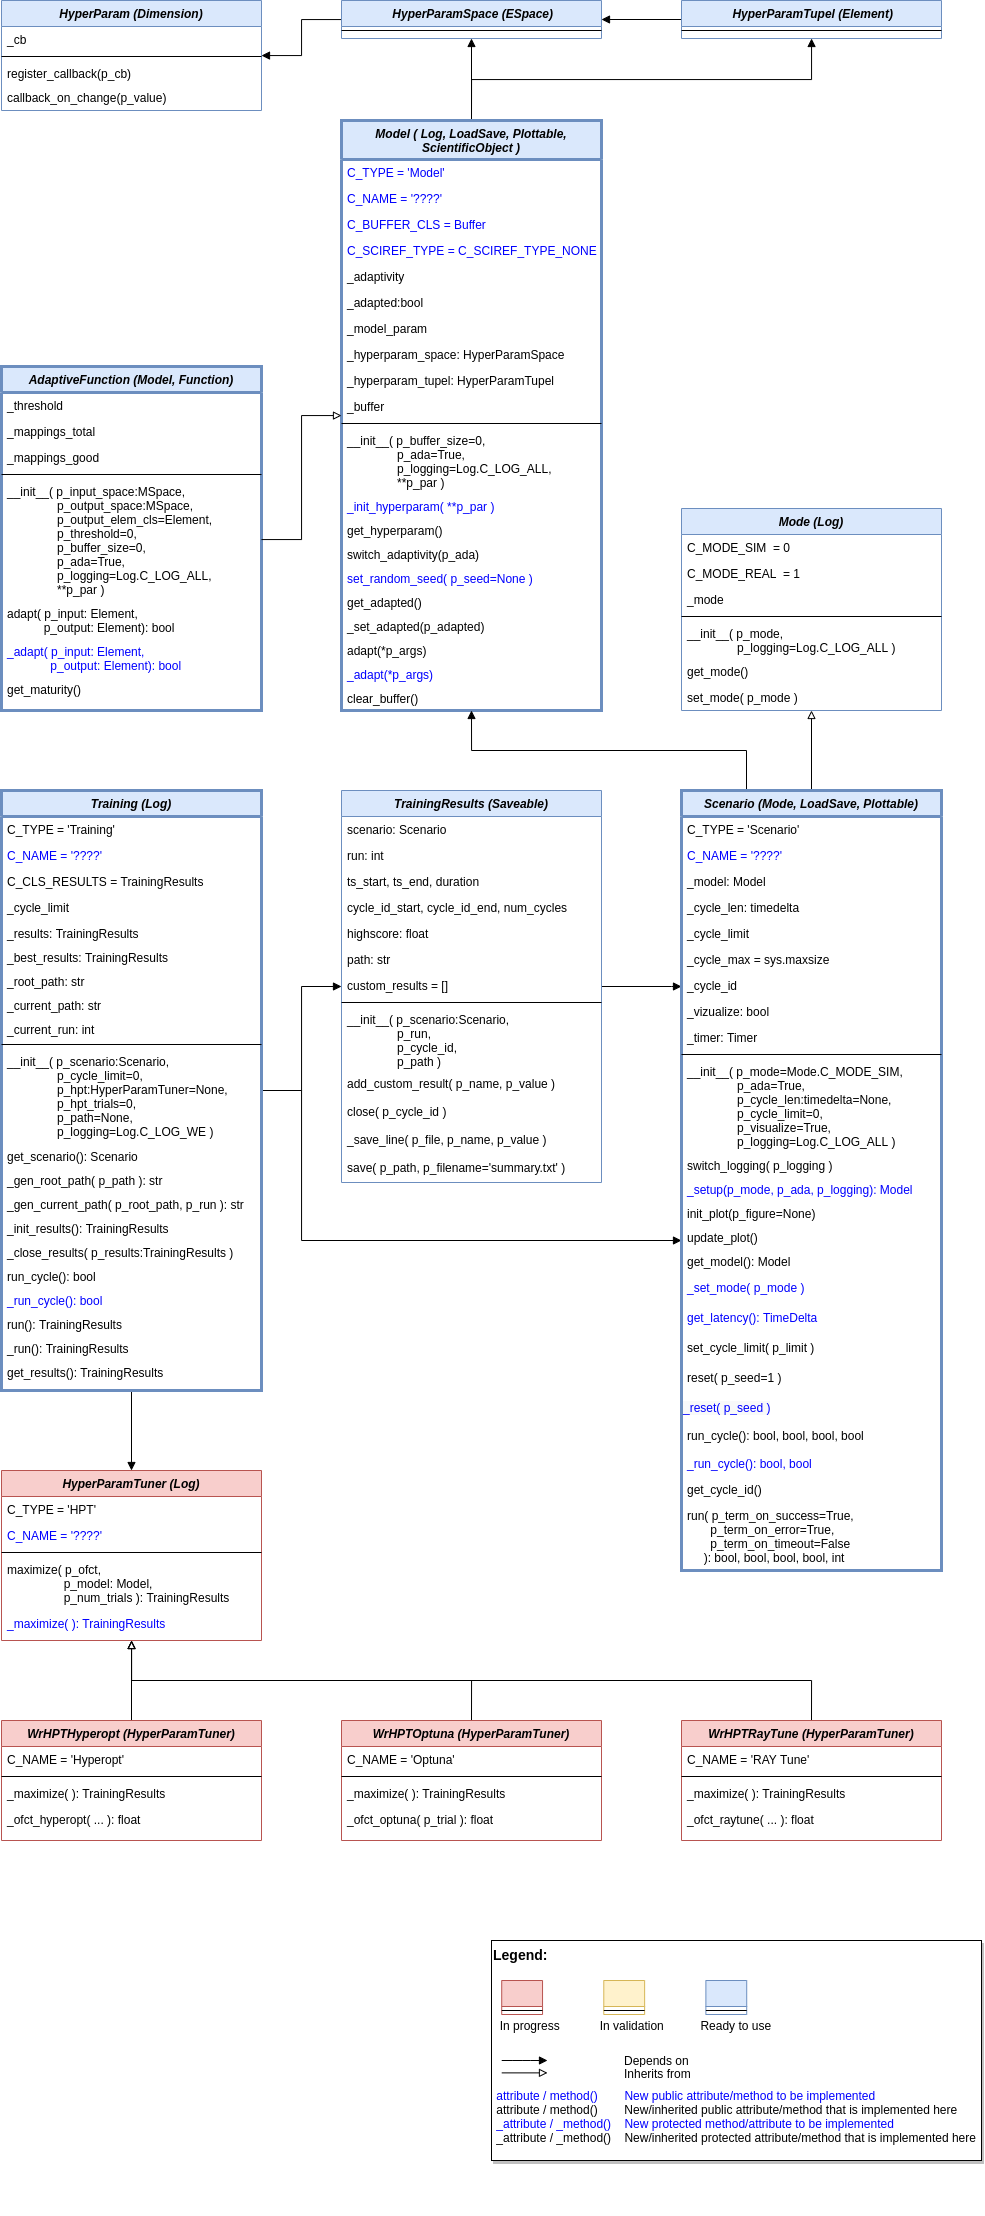
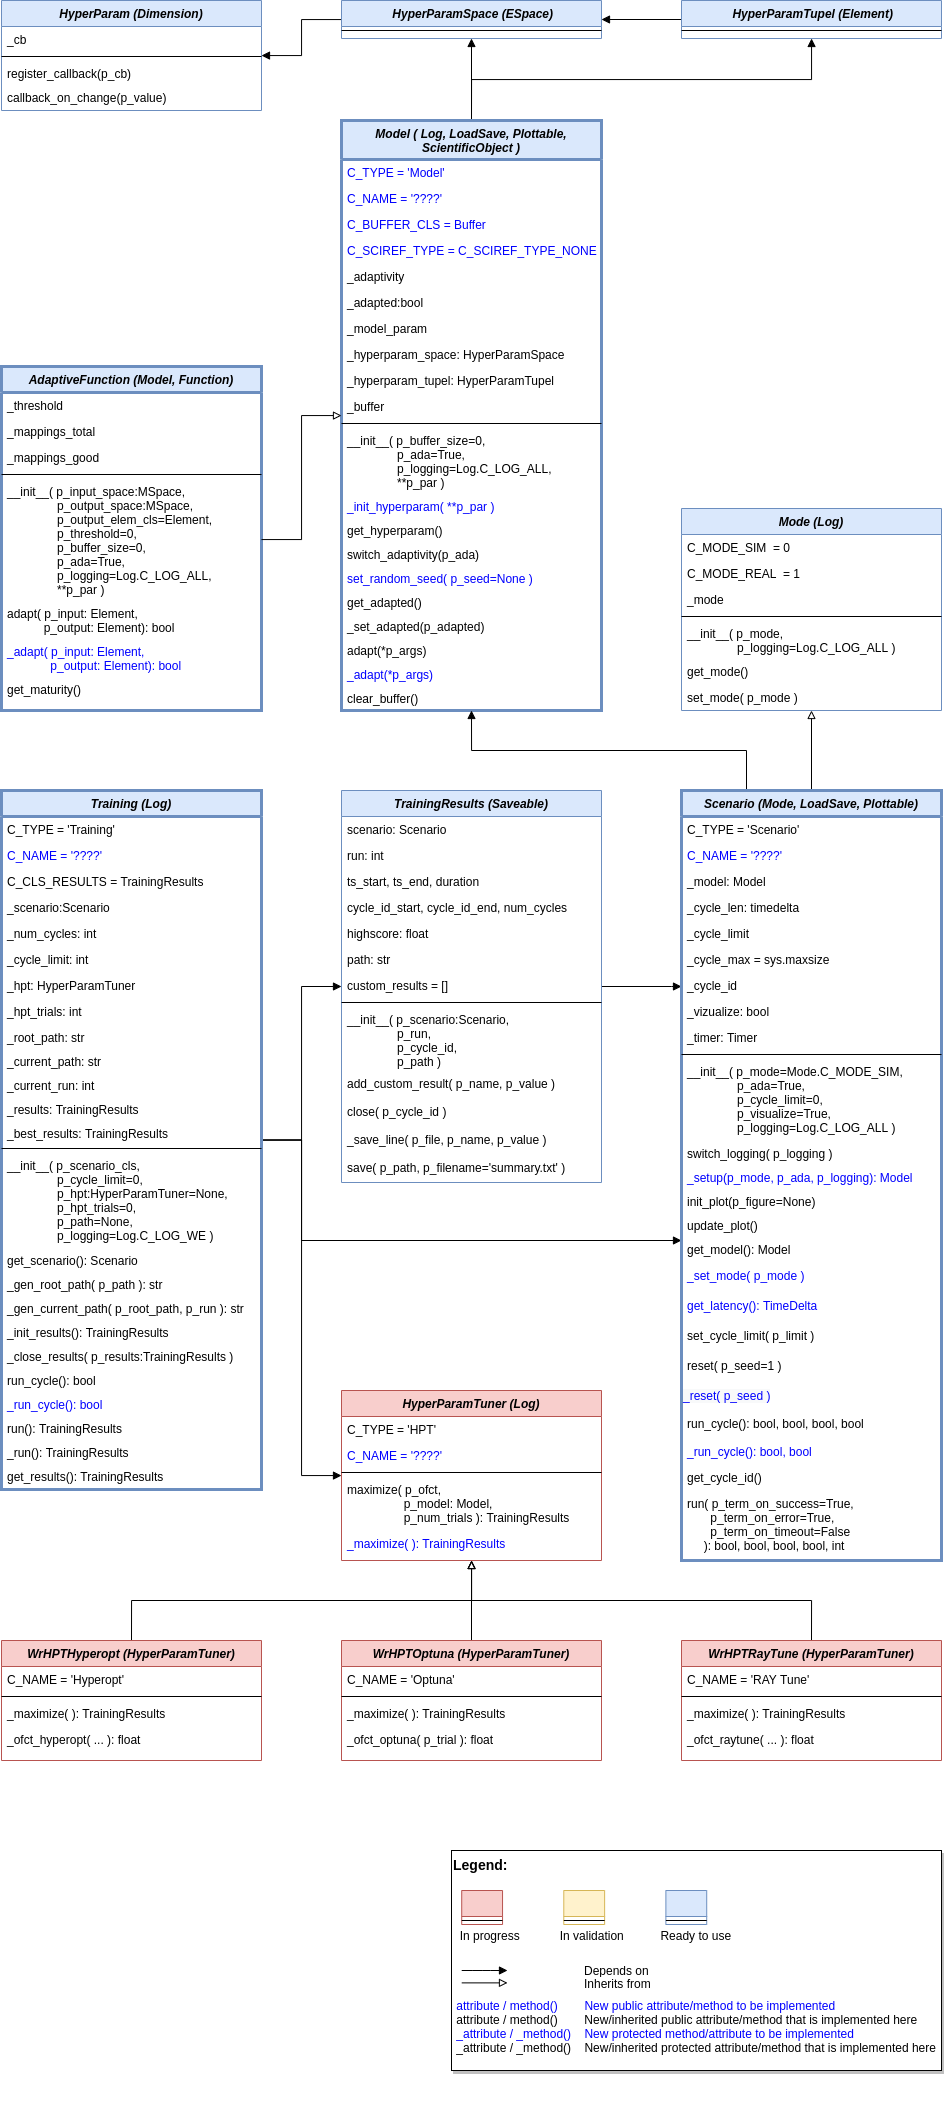
Changes on Scenario and Training classes (ML/RL)

diff --git a/src/mlpro/rl/models_train.py b/src/mlpro/rl/models_train.py
@@ -18,11 +18,13 @@
 ## -- 2021-10-08  1.2.4     DA       Class Scenario/constructor/param p_cycle_limit: new value -1
 ## --                                lets class get the cycle limit from the env
 ## -- 2021-10-28  1.2.5     DA       Bugfix method Scenario.reset(): agent's buffer was not cleared
-## -- 2021-11-13  1.3.0     DA       Rework/improvement of class Training
+## -- 2021-11-13  1.3.0     DA       Rework/improvement of class RLTraining
+## -- 2021-12-07  1.3.1     DA       - Method RLScenario.__init__(): param p_cycle_len removed
+## --                                - Method RLTraining.__init__(): par p_scenario replaced by p_scenario_cls
 ## -------------------------------------------------------------------------------------------------
 
 """
-Ver. 1.3.0 (2021-11-13)
+Ver. 1.3.1 (2021-12-07)
 
 This module provides model classes to define and run rl scenarios and to train agents inside them.
 """
@@ -141,14 +143,13 @@ class RLScenario (Scenario):
     def __init__(self, 
                  p_mode=Mode.C_MODE_SIM,        # Operation mode (see class Mode)
                  p_ada:bool=True,               # Boolean switch for adaptivity of internal model
-                 p_cycle_len:timedelta=None,    # Fixed cycle duration (optional)
                  p_cycle_limit=0,               # Maximum number of cycles (0=no limit, -1=get from env)
                  p_visualize=True,              # Boolean switch for env/agent visualisation
                  p_logging=Log.C_LOG_ALL ):     # Log level (see constants of class Log)
 
         # 1 Setup entire scenario
         self._env   = None
-        super().__init__(p_mode=p_mode, p_ada=p_ada, p_cycle_len=p_cycle_len, p_cycle_limit=p_cycle_limit, p_visualize=p_visualize, p_logging=p_logging)
+        super().__init__(p_mode=p_mode, p_ada=p_ada, p_cycle_limit=p_cycle_limit, p_visualize=p_visualize, p_logging=p_logging)
         if self._env is None: 
             raise ImplementationError('Please bind your RL environment to self._env')
 
@@ -368,40 +369,69 @@ class RLTrainingResults (TrainingResults):
 class RLTraining (Training):
     """
     This class performs an episodical training on a (multi-)agent in a given environment. Both are 
-    expected as parts of a reinforcement learning scenario (see class Scenario for more details).
+    expected as parts of a reinforcement learning scenario (see class RLScenario for more details).
     The class optionally collects all relevant data like environmenal states and rewards or agents
     actions. Furthermore overarching training data will be collected.
 
-    The class provides the three methods run(), run_episode(), run_cycle() that can be called in 
-    any order to proceed the training.
+    Parameters
+    ----------
+    p_scenario_cls 
+        Name of RL scenario class, compatible to/inherited from class RLScenario.
+    p_cycle_limit : int
+        Maximum number of training cycles (0=no limit). Default = 0.
+    p_max_cycles_per_episode : int
+        Optional limit of cycles per episode (0=no limit, -1=get environment limit). Default = -1.    
+    p_max_adaptations : int
+        Optional limit of adaptations (0=no limit). Default = 0.
+    p_max_stagnations : int
+        Optional limit of consecutive evaluations without training progress. Default = 5.
+    p_eval_frequency : int
+        Optional evaluation frequency (0=no evaluation). Default = 100.
+    p_eval_grp_size : int
+        Number of evaluation episodes (eval group). Default = 50.
+    p_hpt : HyperParamTuner
+        Optional hyperparameter tuner (see class mlpro.bf.ml.HyperParamTuner). Default = None.
+    p_hpt_trials : int
+        Optional number of hyperparameter tuning trials. Default = 0. Must be > 0 if p_hpt is supplied.
+    p_path : str
+        Optional destination path to store training data. Default = None.
+    p_collect_states : bool
+        If True, the environment states will be collected. Default = True.
+    p_collect_actions : bool
+        If True, the agent actions will be collected. Default = True.
+    p_collect_rewards : bool
+        If True, the environment reward will be collected. Default = True.
+    p_collect_training : bool
+        If True, global training data will be collected. Default = True.
+    p_visualize : bool
+        Boolean switch for env/agent visualisation. Default = False.
+    p_logging
+        Log level (see constants of class mlpro.bf.various.Log). Default = Log.C_LOG_WE.
 
-    https://github.com/fhswf/MLPro/issues/146
     """
 
-    C_TYPE                  = 'Training'
     C_NAME                  = 'RL'
 
     C_CLS_RESULTS           = RLTrainingResults
 
 ## -------------------------------------------------------------------------------------------------
     def __init__(self, 
-                 p_scenario:RLScenario,         # RL scenario object 
-                 p_cycle_limit=0,               # Maximum number of training cycles (0=no limit)
-                 p_max_cycles_per_episode=-1,   # Optional limit for cycles per episode
-                                                # (0=no limit, -1=get environment limit)
-                 p_max_adaptations=0,           # Optional limit for total number of adaptations
-                 p_max_stagnations=5,           # Optional length of a sequence of evaluations without
-                                                # training progress
-                 p_eval_frequency=100,          # Optional evaluation frequency (0=no evaluation)
-                 p_eval_grp_size=50,            # Number of evaluation episodes (eval group)
-                 p_hpt:HyperParamTuner=None,    # Optional hyperparameter tuner (see class HyperParamTuner)
-                 p_hpt_trials=0,                # Optional number of hyperparameter tuning trials
-                 p_path=None,                   # Optional destination path to store training data
-                 p_collect_states=True,         # If True, the environment states will be collected
-                 p_collect_actions=True,        # If True, the agent actions will be collected
-                 p_collect_rewards=True,        # If True, the environment reward will be collected
-                 p_collect_training=True,       # If True, global training data will be collected
-                 p_logging=Log.C_LOG_WE):       # Log level (see constants of class Log)
+                 p_scenario_cls,         
+                 p_cycle_limit=0,               
+                 p_max_cycles_per_episode=-1,   
+                 p_max_adaptations=0,           
+                 p_max_stagnations=5,           
+                 p_eval_frequency=100,          
+                 p_eval_grp_size=50,            
+                 p_hpt:HyperParamTuner=None,    
+                 p_hpt_trials=0,                
+                 p_path=None,                   
+                 p_collect_states=True,         
+                 p_collect_actions=True,       
+                 p_collect_rewards=True,        
+                 p_collect_training=True,  
+                 p_visualize=False,     
+                 p_logging=Log.C_LOG_WE):
 
         if ( p_cycle_limit <= 0 ) and ( p_max_adaptations <= 0 ) and ( p_max_stagnations <= 0 ):
             raise ParamError('Please define a termination criterion')
@@ -412,7 +442,13 @@ class RLTraining (Training):
         if p_max_adaptations > 0: raise NotImplementedError
         if p_max_stagnations > 0: raise NotImplementedError
 
-        super().__init__(p_scenario, p_cycle_limit=p_cycle_limit, p_hpt=p_hpt, p_hpt_trials=p_hpt_trials, p_path=p_path, p_logging=p_logging)
+        super().__init__( p_scenario_cls=p_scenario_cls, 
+                          p_cycle_limit=p_cycle_limit, 
+                          p_hpt=p_hpt, 
+                          p_hpt_trials=p_hpt_trials, 
+                          p_path=p_path, 
+                          p_visualize=p_visualize,
+                          p_logging=p_logging)
  
         self._env                   = self._scenario.get_env()
         self._agent                 = self._scenario.get_agent()

diff --git a/src/mlpro/bf/ml.py b/src/mlpro/bf/ml.py
@@ -19,10 +19,12 @@
 ## -- 2021-11-30  1.2.1     DA       - Classes Model, AdaptiveFunction: new opt. parameters **p_par
 ## --                                - Docstrings reformatted to numpy style
 ## --                                - Class Model: new method get_maturity()
+## -- 2021-12-07  1.2.2     DA       - Method Scenario.__init__(): param p_cycle_len removed
+## --                                - Method Training.__init__(): par p_scenario replaced by p_scenario_cls
 ## -------------------------------------------------------------------------------------------------
 
 """
-Ver. 1.2.1 (2021-11-30)
+Ver. 1.2.2 (2021-12-07)
 
 This module provides fundamental machine learning templates, functionalities and properties.
 """
@@ -477,17 +479,15 @@ class Scenario (Mode, LoadSave, Plottable):
     Parameters
     ----------
     p_mode
-        Operation mode. See Mode.C_VALID_MODES for valid values. Default = Mode.C_MODE_SIM
+        Operation mode. See Mode.C_VALID_MODES for valid values. Default = Mode.C_MODE_SIM.
     p_ada : bool
-        Boolean switch for adaptivity. Default = True
-    p_cycle_len : timedelta
-        Optional fixed cycle duration 
+        Boolean switch for adaptivity. Default = True.
     p_cycle_limit : int
-        Maximum number of cycles. Default = 0 (no limit)
-    p_visualization : bool
-        Boolean switch for env/agent visualisation. Default = True
+        Maximum number of cycles. Default = 0 (no limit).
+    p_visualize : bool
+        Boolean switch for env/agent visualisation. Default = True.
     p_logging
-        Log level (see constants of class Log). Default: Log.C_LOG_ALL
+        Log level (see constants of class Log). Default: Log.C_LOG_ALL.
     
     """
 
@@ -498,13 +498,11 @@ class Scenario (Mode, LoadSave, Plottable):
     def __init__(self, 
                  p_mode=Mode.C_MODE_SIM,       
                  p_ada:bool=True,               
-                 p_cycle_len:timedelta=None,    
                  p_cycle_limit=0,              
                  p_visualize=True,              
                  p_logging=Log.C_LOG_ALL ):    
 
         # 0 Intro
-        self._cycle_len     = p_cycle_len
         self._cycle_max     = sys.maxsize
         self._cycle_id      = 0
         self._visualize     = p_visualize
@@ -525,12 +523,8 @@ class Scenario (Mode, LoadSave, Plottable):
         else:
             t_mode = Timer.C_MODE_REAL
 
-        if self._cycle_len is not None:
-            t_lap_duration = p_cycle_len
-        else:
-            t_lap_duration = self.get_latency()
-
-        self._timer  = Timer(t_mode, t_lap_duration, self._cycle_limit)
+        self._cycle_len = self.get_latency()
+        self._timer     = Timer(t_mode, self._cycle_len, self._cycle_limit)
 
 
 ## -------------------------------------------------------------------------------------------------
@@ -928,8 +922,8 @@ class Training (Log):
 
     Parameters
     ----------
-    p_scenario : Scenario
-        ML scenario (see class Scenario) with model to be trained.
+    p_scenario_cls 
+        Name of ML scenario class, compatible to/inherited from class Scenario.
     p_cycle_limit : int
         Maximum number of training cycles (0=no limit)
     p_hpt : HyperParamTuner
@@ -938,6 +932,8 @@ class Training (Log):
         Optional number of hyperparameter tuning trials. Default = 0.        
     p_path : str
         Optional destination path to store training data. Default = None.
+    p_visualize : bool
+        Boolean switch for env/agent visualisation. Default = True
     p_logging
         Log level (see constants of class Log). Default = Log.C_LOG_WE.
 
@@ -950,16 +946,25 @@ class Training (Log):
 
 ## -------------------------------------------------------------------------------------------------
     def __init__(self, 
-                 p_scenario:Scenario,           
-                 p_cycle_limit=0,               
+                 p_scenario_cls,           
+                 p_cycle_limit=0,   
                  p_hpt:HyperParamTuner=None,    
                  p_hpt_trials=0,                
-                 p_path=None,                  
-                 p_logging=Log.C_LOG_WE):      
+                 p_path=None,           
+                 p_visualize:bool=False,       
+                 p_logging=Log.C_LOG_WE ):      
 
         super().__init__(p_logging=p_logging)
 
-        self._scenario          = p_scenario
+        try:
+            self._scenario = p_scenario_cls( p_mode=Mode.C_MODE_SIM, 
+                                             p_ada=True,
+                                             p_cycle_limit=p_cycle_limit,
+                                             p_visualize=p_visualize,
+                                             p_logging=p_logging )
+        except:
+            raise ParamError('Par p_scenario_cls: class "' + p_scenario_cls + '" not compatible')
+
         self._num_cycles        = 0
         self._cycle_limit       = p_cycle_limit
         self._hpt               = p_hpt

diff --git a/examples/rl/Howto 03 - (RL) Train agent with own policy on gym environment.py b/examples/rl/Howto 03 - (RL) Train agent with own policy on gym environment.py
@@ -17,10 +17,11 @@
 ## -- 2021-10-18  1.2.4     DA       Refactoring 
 ## -- 2021-11-15  1.3.0     DA       Refactoring 
 ## -- 2021-12-03  1.3.1     DA       Refactoring 
+## -- 2021-12-07  1.3.2     DA       Refactoring 
 ## -------------------------------------------------------------------------------------------------
 
 """
-Ver. 1.3.1 (2021-12-03)
+Ver. 1.3.2 (2021-12-07)
 
 This module shows how to train an agent with a custom policy inside on an OpenAI Gym environment using the fhswf_at_ml framework.
 """
@@ -111,23 +112,14 @@ else:
     path        = None
 
 
-# 3.3 Create your scenario
-myscenario  = MyScenario(
-        p_mode=Mode.C_MODE_SIM,
-        p_ada=True,
-        p_visualize=visualize,
-        p_logging=logging 
-)
-
-
-# 3.4 Create and run training object
+# 3.3 Create and run training object
 training = RLTraining(
-        p_scenario=myscenario,
+        p_scenario_cls=MyScenario,
         p_cycle_limit=100,
         p_max_adaptations=0,
         p_max_stagnations=0,
         p_path=path,
-        p_logging=logging
-)
+        p_visualize=visualize,
+        p_logging=logging )
 
 training.run()

diff --git a/examples/rl/Howto 05 - (RL) Train multi-agent with own policy on multicartpole environment.py b/examples/rl/Howto 05 - (RL) Train multi-agent with own policy on multicartpole environment.py
@@ -15,10 +15,11 @@
 ## --                                folder structer
 ## -- 2021-10-06  1.2.2     DA       Refactoring 
 ## -- 2021-11-15  1.3.0     DA       Refactoring 
+## -- 2021-12-07  1.3.1     DA       Refactoring 
 ## -------------------------------------------------------------------------------------------------
 
 """
-Ver. 1.3.0 (2021-11-15)
+Ver. 1.3.1 (2021-12-07)
 
 This module shows how to train an own multi-agent with the enhanced multi-action environment 
 MultiCartPole based on the OpenAI Gym CartPole environment.
@@ -142,23 +143,14 @@ else:
     path        = None
 
 
-# 3.3 Create your scenario
-myscenario  = MyScenario(
-        p_mode=Mode.C_MODE_SIM,
-        p_ada=True,
-        p_visualize=visualize,
-        p_logging=logging 
-)
-
-
 # 3.4 Create and run training object
 training = RLTraining(
-        p_scenario=myscenario,
+        p_scenario_cls=MyScenario,
         p_cycle_limit=100,
         p_max_adaptations=0,
         p_max_stagnations=0,
         p_path=path,
-        p_logging=logging
-)
+        p_visualize=visualize,
+        p_logging=logging )
 
 training.run()
